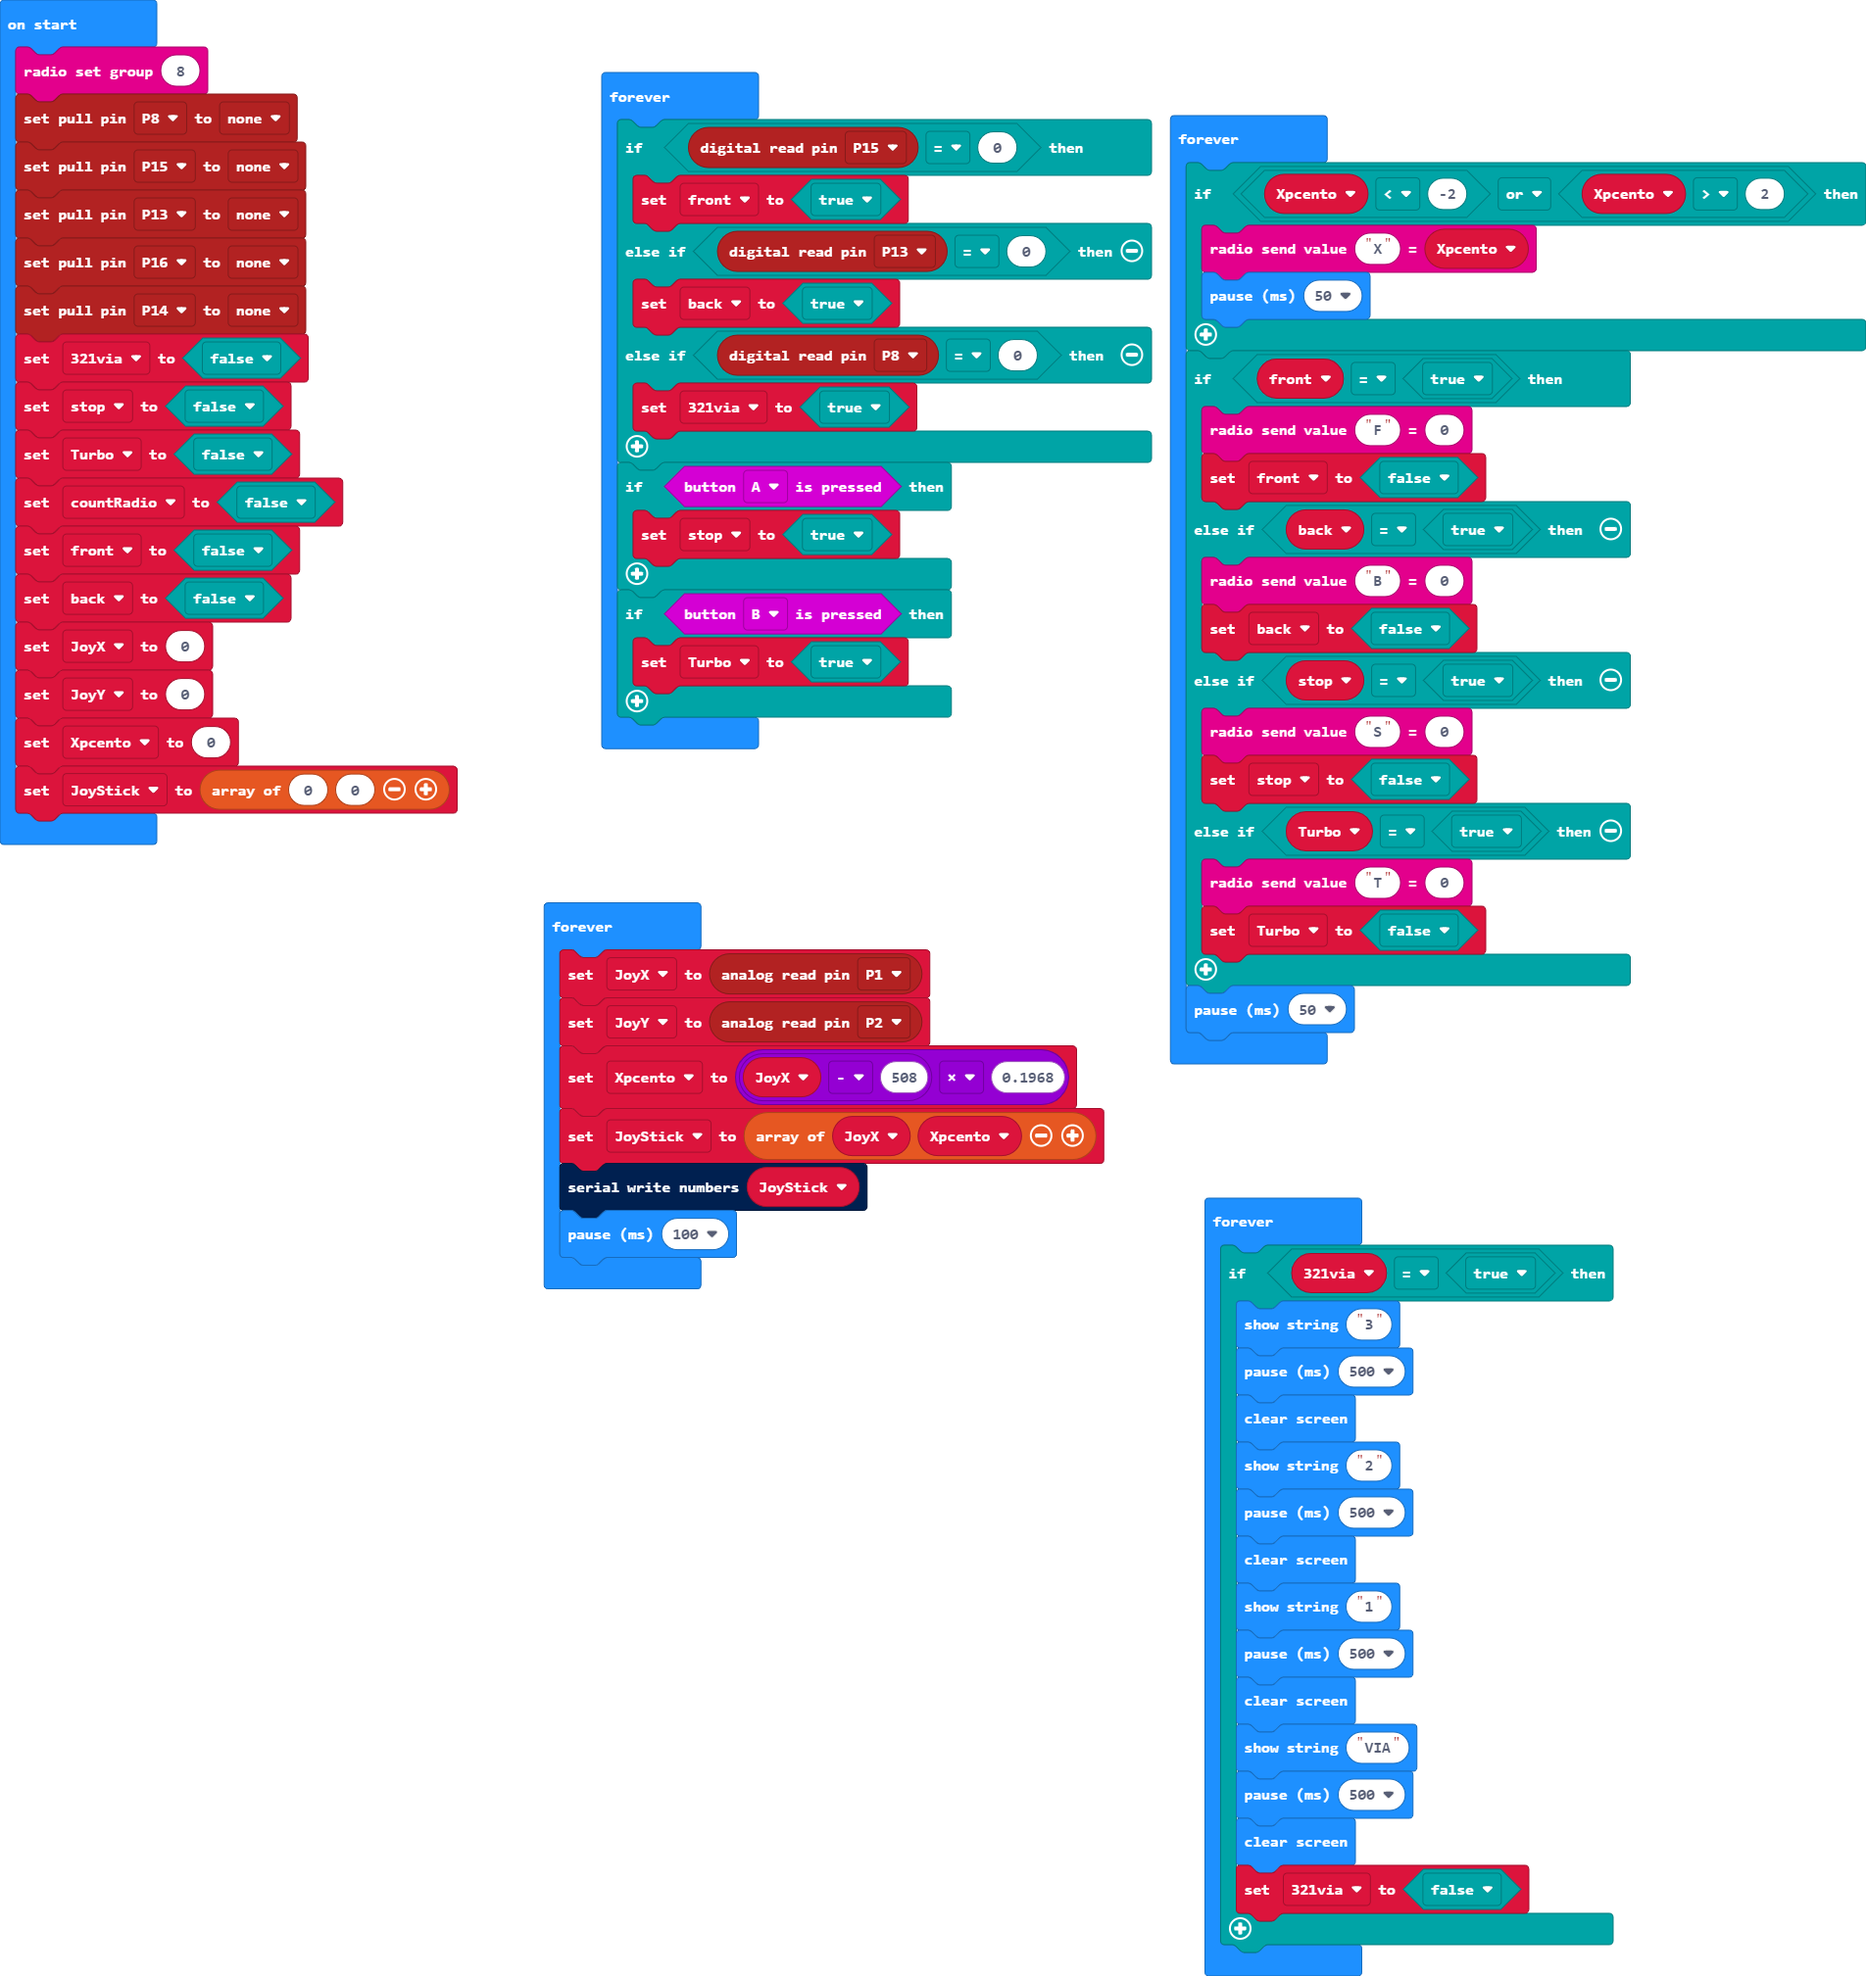
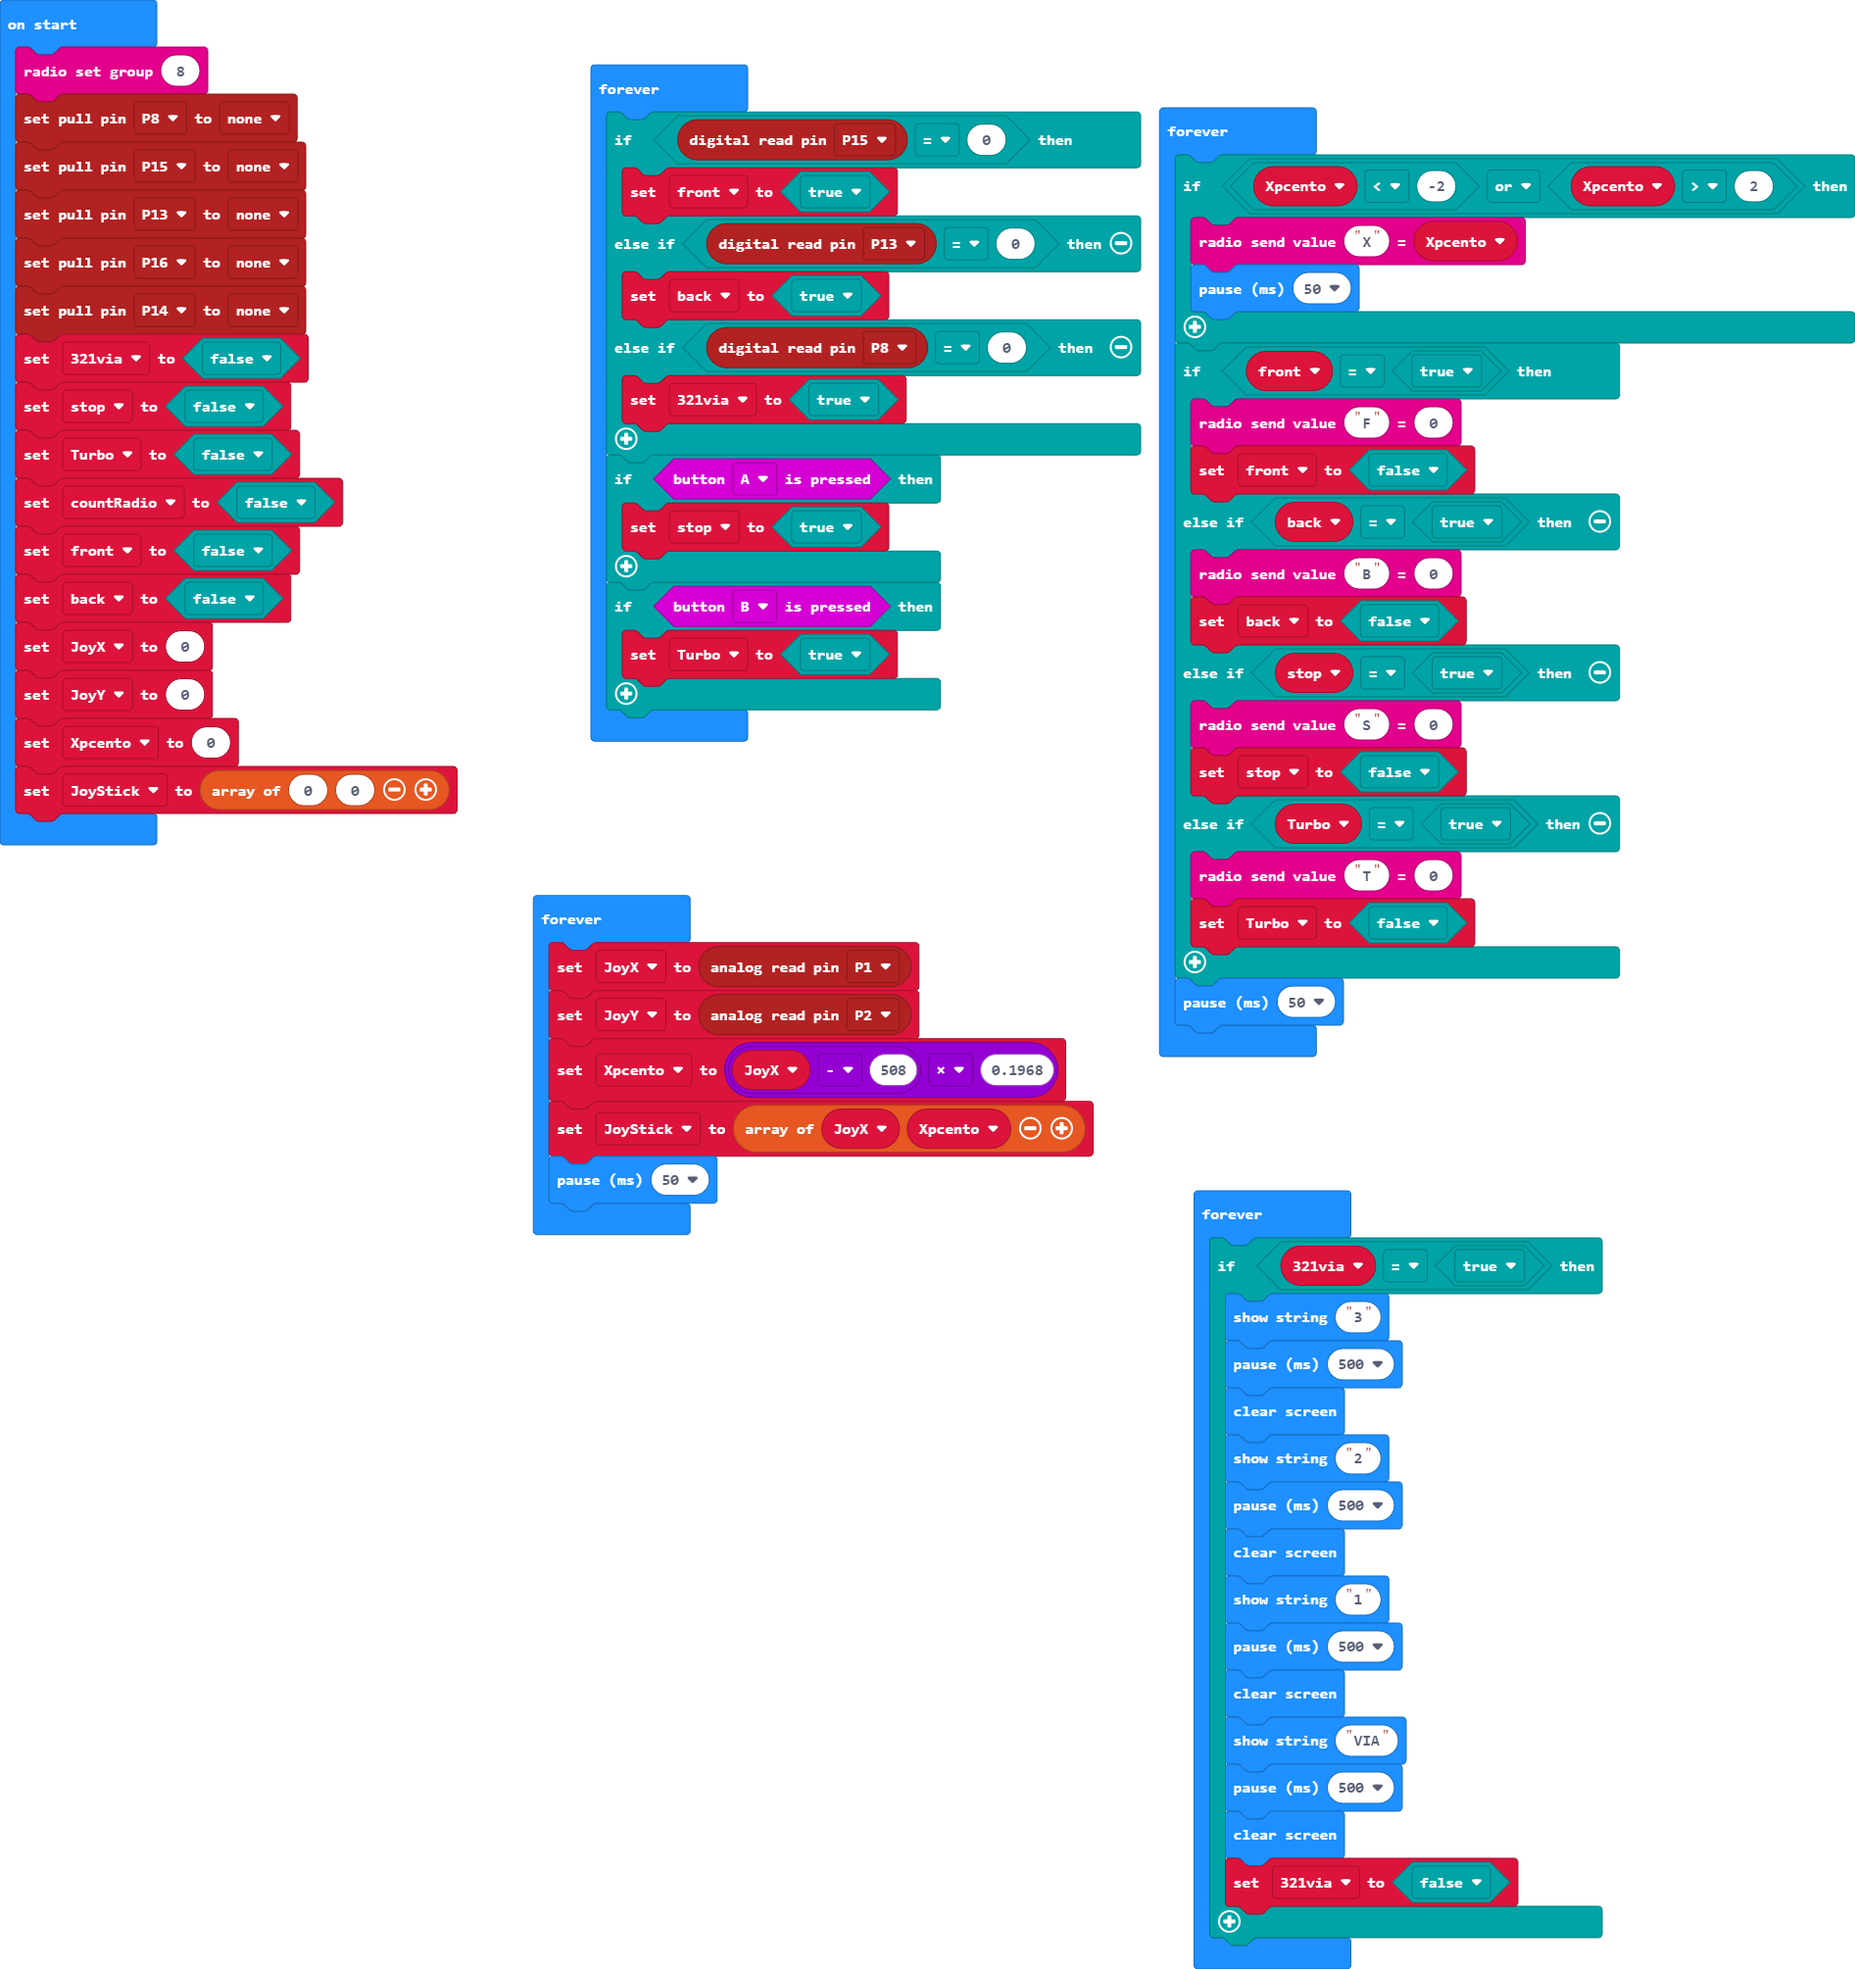
Update main.blocks, main.ts

diff --git a/main.ts b/main.ts
@@ -54,8 +54,7 @@ basic.forever(function () {
     JoyY = pins.analogReadPin(AnalogPin.P2)
     Xpcento = (JoyX - 508) * 0.1968
     JoyStick = [JoyX, Xpcento]
-    serial.writeNumbers(JoyStick)
-    basic.pause(100)
+    basic.pause(50)
 })
 basic.forever(function () {
     if (_321via == true) {
